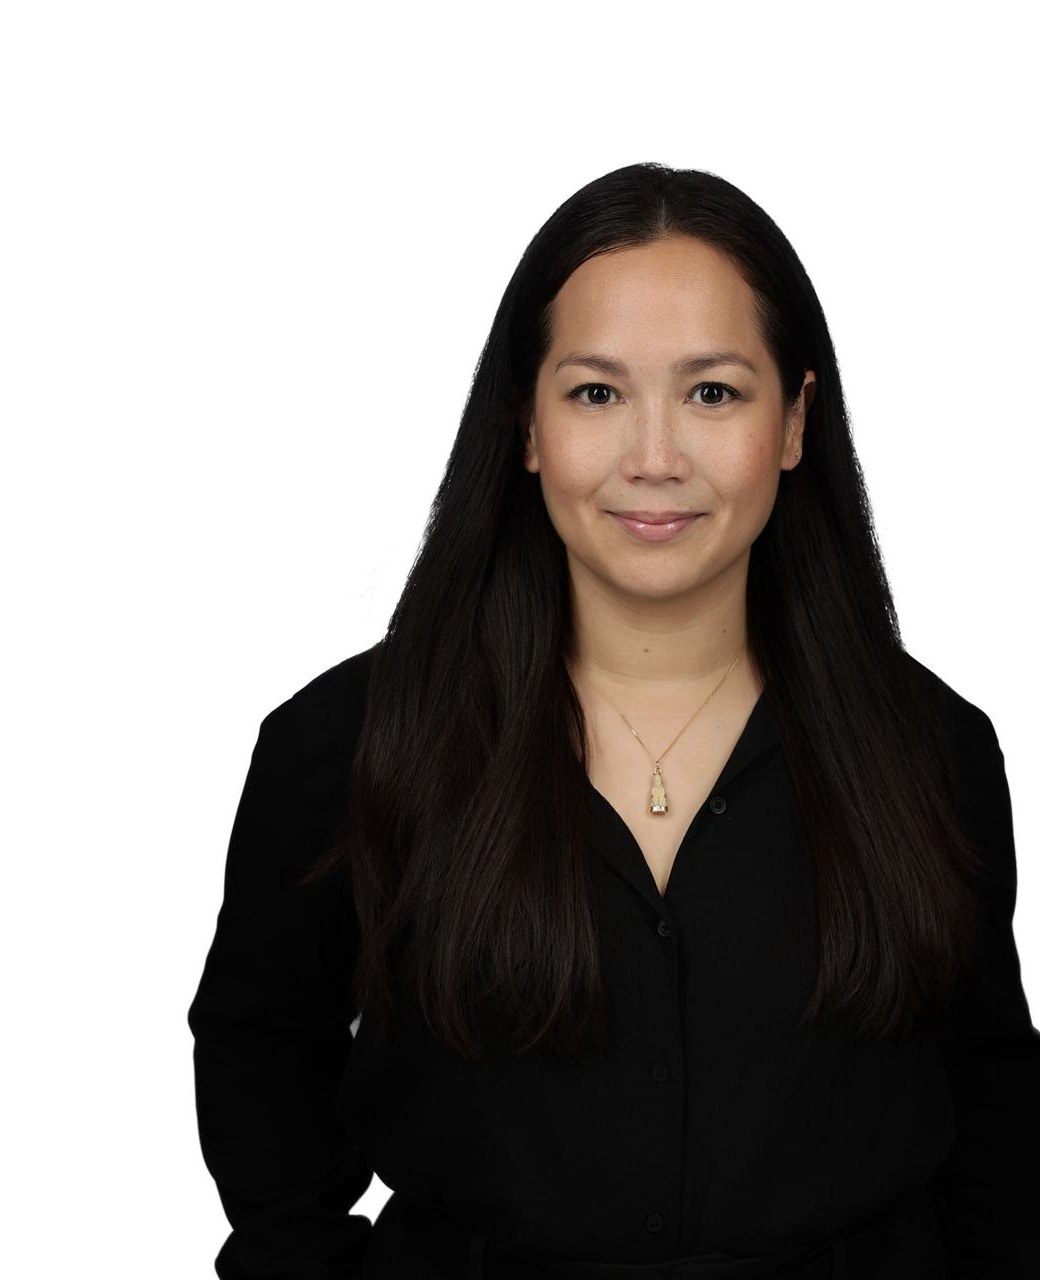
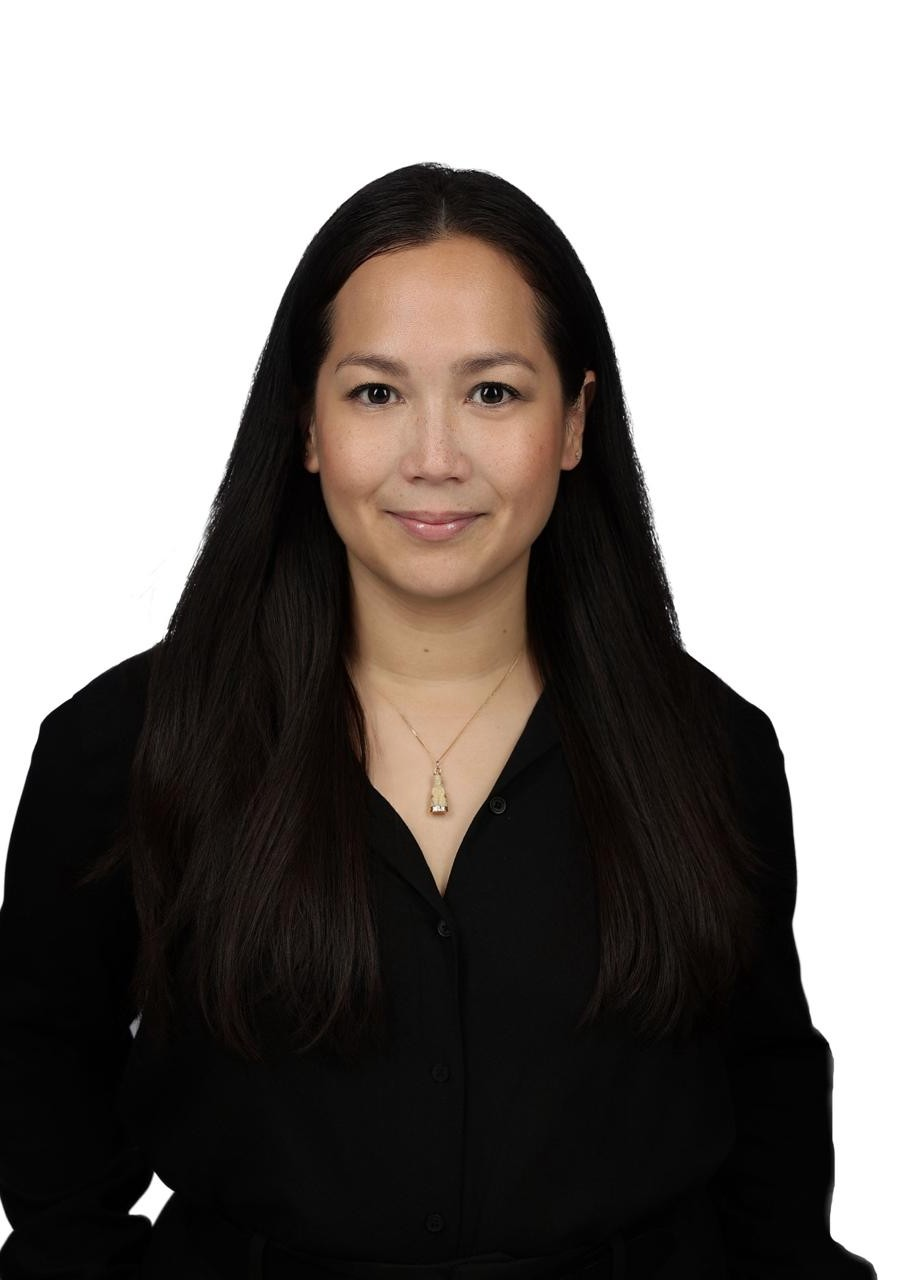
Add files via upload

diff --git a/index.html b/index.html
@@ -6,8 +6,8 @@
     <meta name="viewport" content="width=device-width, initial-scale=1.0" />
     <meta name="description" content="Eugenie Do – Real estate agent for the Greater Montreal Area. Buyer-first approach with construction expertise." />
     <title>Eugenie Do – Real Estate Agent, Greater Montreal</title>
-    <script type="module" crossorigin src="./assets/index-CJP-F1ou.js"></script>
-    <link rel="stylesheet" crossorigin href="./assets/index-B2unGfl3.css">
+    <script type="module" crossorigin src="./assets/index-CKINbBD5.js"></script>
+    <link rel="stylesheet" crossorigin href="./assets/index-CpiVnJFN.css">
   </head>
   <body>
     <div id="root"></div>

diff --git a/assets/index-CpiVnJFN.css b/assets/index-CpiVnJFN.css
@@ -1,0 +1,1 @@
+.nav{z-index:100;height:var(--nav-h);-webkit-backdrop-filter:blur(10px);backdrop-filter:blur(10px);transition:box-shadow .3s var(--ease);background:#faf6f2f2;border-bottom:1px solid #0000000f;align-items:center;display:flex;position:fixed;top:0;left:0;right:0}.nav.scrolled{box-shadow:0 2px 20px #00000014}.nav-inner{width:100%;max-width:var(--max);align-items:center;gap:32px;margin:0 auto;padding:0 32px;display:flex}.nav-logo{font-family:var(--font-disp);letter-spacing:.02em;color:var(--dark);cursor:pointer;background:0 0;border:none;margin-right:auto;padding:0;font-size:1.25rem;font-weight:500}.nav-logo span{color:var(--rose)}.nav-links{align-items:center;gap:32px;list-style:none;display:flex}.nav-link{letter-spacing:.1em;text-transform:uppercase;color:var(--mid);cursor:pointer;background:0 0;border:none;padding:4px 0;font-size:.78rem;font-weight:500;transition:color .2s}.nav-link:hover,.nav-link.active{color:var(--rose)}.nav-cta{letter-spacing:.08em;text-transform:uppercase;color:var(--white);background:var(--rose);cursor:pointer;border:none;border-radius:2px;padding:10px 22px;font-size:.78rem;font-weight:500;transition:background .2s}.nav-cta:hover{background:var(--rose-dk)}.nav-phone{color:var(--mid);white-space:nowrap;font-size:.78rem}.nav-phone:hover{color:var(--rose)}.hamburger{cursor:pointer;background:0 0;border:none;flex-direction:column;gap:5px;padding:6px;display:none}.hamburger span{background:var(--dark);width:24px;height:1.5px;transition:transform .3s var(--ease), opacity .3s;display:block}.hamburger.open span:first-child{transform:translateY(6.5px)rotate(45deg)}.hamburger.open span:nth-child(2){opacity:0}.hamburger.open span:nth-child(3){transform:translateY(-6.5px)rotate(-45deg)}.mobile-drawer{top:var(--nav-h);background:var(--cream);z-index:99;animation:slideDown .25s var(--ease);border-top:1px solid #0000000f;flex-direction:column;padding:16px 32px 28px;display:flex;position:fixed;left:0;right:0}.mobile-drawer button{letter-spacing:.1em;text-transform:uppercase;color:var(--mid);cursor:pointer;text-align:left;background:0 0;border:none;border-bottom:1px solid #0000000f;padding:14px 0;font-size:.85rem;font-weight:500;transition:color .2s}.mobile-drawer button:hover{color:var(--rose)}.mobile-drawer .mob-cta{background:var(--rose);border-radius:2px;margin-top:20px;padding:14px 24px;color:var(--white)!important;text-align:center!important;border-bottom:none!important}@keyframes slideDown{0%{opacity:0;transform:translateY(-8px)}to{opacity:1;transform:translateY(0)}}@media (width<=900px){.nav-links,.nav-phone{display:none}.hamburger{display:flex}}@media (width<=640px){.nav-inner{padding:0 20px}.mobile-drawer{padding:16px 20px 28px}}.nav-right{align-items:center;gap:16px;display:flex}.lang-toggle{letter-spacing:.1em;border:1px solid var(--rose);color:var(--rose);cursor:pointer;background:0 0;border-radius:2px;padding:5px 12px;font-size:.72rem;font-weight:500;transition:background .2s,color .2s}.lang-toggle:hover{background:var(--rose);color:var(--white)}.mob-lang{color:var(--rose);cursor:pointer;text-align:left;background:0 0;border:none;margin-top:8px;padding:12px 0;font-size:.8rem}@media (width<=900px){.nav-right{display:none}}.footer{background:#141210;padding:56px 0 32px}.footer-logo{font-family:var(--font-disp);letter-spacing:.02em;color:var(--white);cursor:pointer;background:0 0;border:none;margin-bottom:14px;padding:0;font-size:1.25rem;font-weight:500;display:block}.footer-logo span{color:var(--rose)}.footer-grid{border-bottom:1px solid #ffffff12;grid-template-columns:2fr 1fr 1fr;gap:48px;padding-bottom:40px;display:grid}.footer-brand p{color:#ffffff59;max-width:260px;font-size:.83rem;line-height:1.7}.footer-col h4{letter-spacing:.12em;text-transform:uppercase;color:#fff6;margin-bottom:18px;font-size:.72rem;font-weight:500}.footer-col ul{flex-direction:column;gap:10px;list-style:none;display:flex}.footer-col ul button,.footer-col ul a{color:#ffffff73;cursor:pointer;text-align:left;font-size:.85rem;font-family:var(--font-body);background:0 0;border:none;padding:0;transition:color .2s}.footer-col ul button:hover,.footer-col ul a:hover{color:var(--rose)}.footer-bottom{color:#fff3;flex-wrap:wrap;justify-content:space-between;align-items:center;gap:12px;padding-top:28px;font-size:.75rem;display:flex}@media (width<=760px){.footer-grid{grid-template-columns:1fr 1fr}}@media (width<=480px){.footer-grid{grid-template-columns:1fr}}.newsletter-strip{background:var(--blush);padding:60px 0}.newsletter-inner{flex-wrap:wrap;justify-content:space-between;align-items:center;gap:32px;display:flex}.newsletter-text h3{font-family:var(--font-disp);margin-bottom:6px;font-size:1.6rem;font-weight:300}.newsletter-text p{color:var(--mid);font-size:.88rem}.newsletter-form{flex:0 0 420px;display:flex}.newsletter-form input{background:var(--white);font-family:var(--font-body);border:1px solid #0000001f;border-right:none;border-radius:2px 0 0 2px;outline:none;flex:1;padding:14px 18px;font-size:.9rem}.newsletter-form input:focus{border-color:var(--rose)}.newsletter-form button{background:var(--rose);color:var(--white);letter-spacing:.1em;text-transform:uppercase;white-space:nowrap;border-radius:0 2px 2px 0;padding:14px 24px;font-size:.78rem;font-weight:500;transition:background .2s}.newsletter-form button:hover:not(:disabled){background:var(--rose-dk)}.newsletter-done{color:var(--rose);font-size:.9rem;font-weight:500}@media (width<=760px){.newsletter-form{flex:100%}}.hero{min-height:100vh;padding-top:var(--nav-h);grid-template-columns:1fr 1fr;display:grid}.hero-left{flex-direction:column;justify-content:center;padding:80px 64px 80px 80px;display:flex}.hero-eyebrow{letter-spacing:.18em;text-transform:uppercase;color:var(--rose);margin-bottom:20px;font-size:.72rem;font-weight:500}.hero-title{font-family:var(--font-disp);color:var(--dark);margin-bottom:24px;font-size:clamp(3rem,4.5vw,5.5rem);font-weight:300;line-height:1.05}.hero-title em{color:var(--rose);font-style:italic}.hero-sub{color:var(--mid);max-width:420px;margin-bottom:40px;font-size:1rem;line-height:1.75}.hero-actions{flex-wrap:wrap;gap:16px;display:flex}.hero-right{background:var(--blush);position:relative;overflow:hidden}.hero-right picture{width:100%;height:100%;display:block}.hero-right picture img{object-fit:cover;object-position:top center;width:100%;height:100%}.hero-right:after{content:"";background:linear-gradient(#0000 60%,#1a171426);position:absolute;inset:0}.hero-badges{z-index:2;flex-wrap:wrap;gap:14px;display:flex;position:absolute;bottom:32px;left:32px;right:32px}.hero-badge{-webkit-backdrop-filter:blur(8px);backdrop-filter:blur(8px);color:var(--mid);background:#faf6f2eb;border-radius:2px;padding:12px 18px;font-size:.78rem}.hero-badge strong{color:var(--dark);font-size:.9rem;font-weight:500;display:block}.hero-badge-logo{align-items:center;padding:10px 16px;display:flex}.hero-badge-logo img{width:auto;height:120px;display:block}.services-section{background:var(--white);padding:100px 0}.services-grid{background:#0000000d;grid-template-columns:repeat(2,1fr);gap:2px;display:grid}.service-card{background:var(--white);padding:48px 44px;transition:background .25s}.service-card:hover{background:var(--cream)}.service-icon{background:var(--blush);width:44px;height:44px;color:var(--rose);border-radius:50%;justify-content:center;align-items:center;margin-bottom:24px;display:flex}.service-icon svg{width:20px;height:20px}.service-card h3{font-family:var(--font-disp);color:var(--dark);margin-bottom:14px;font-size:1.5rem;font-weight:400}.service-card p{color:var(--mid);font-size:.9rem;line-height:1.75}.testimonials-section{background:var(--blush);padding:100px 0}.testimonials-grid{grid-template-columns:repeat(3,1fr);gap:24px;display:grid}.testimonial-card{background:var(--white);padding:40px 36px;position:relative}.testimonial-photo{z-index:1;border:2px solid var(--blush);border-radius:50%;width:56px;height:56px;margin-bottom:20px;position:relative;overflow:hidden}.testimonial-photo img{object-fit:cover;width:100%;height:100%}.testimonial-photo-fallback{background:var(--rose);width:100%;height:100%;color:var(--white);font-family:var(--font-disp);justify-content:center;align-items:center;font-size:1.1rem;font-weight:500;display:none}.testimonial-card:before{content:"“";font-family:var(--font-disp);color:var(--blush);font-size:5rem;line-height:.5;position:absolute;top:28px;right:28px}.stars{color:var(--rose);margin-bottom:14px;font-size:.85rem}.testimonial-card blockquote{color:var(--mid);z-index:1;margin-bottom:24px;font-size:.9rem;line-height:1.8;position:relative}.testimonial-card cite{letter-spacing:.05em;color:var(--dark);font-size:.8rem;font-style:normal;font-weight:500}.testimonial-card cite span{color:var(--light);font-size:.78rem;font-weight:300;display:block}.blog-preview-section{background:var(--cream);padding:100px 0}.blog-header{flex-wrap:wrap;justify-content:space-between;align-items:flex-end;gap:16px;margin-bottom:48px;display:flex}.read-all-btn{letter-spacing:.1em;text-transform:uppercase;color:var(--rose);cursor:pointer;background:0 0;border:none;font-size:.75rem;font-weight:500;transition:color .2s}.read-all-btn:hover{color:var(--rose-dk)}.blog-grid{grid-template-columns:repeat(3,1fr);gap:28px;display:grid}@media (width<=960px){.hero{grid-template-columns:1fr;min-height:auto}.hero-left{order:2;padding:60px 32px 40px}.hero-right{aspect-ratio:auto;background:var(--cream);flex-direction:column;order:1;align-items:center;height:auto;max-height:none;padding:32px 40px 0;display:flex;overflow:visible}.hero-right picture{width:100%;max-width:320px;display:block;position:relative}.hero-right picture img{object-fit:unset;object-position:unset;width:100%;height:auto;display:block}.hero-right:after{display:none}.hero-badges{flex-direction:row;width:100%;max-width:320px;margin-top:12px;padding:0;position:static}.hero-badge-logo img{height:80px}.services-grid,.testimonials-grid,.blog-grid{grid-template-columns:1fr}}@media (width<=640px){.hero-left{padding:48px 20px 32px}.hero-badges{flex-direction:column;gap:8px}.services-section,.testimonials-section,.blog-preview-section{padding:64px 0}}.about-section{background:var(--cream);padding:100px 0}.about-grid{grid-template-columns:5fr 7fr;align-items:start;gap:80px;display:grid}.about-img-wrap{position:relative}.about-img-wrap:before{content:"";border:1px solid var(--rose);z-index:0;position:absolute;inset:-16px 16px 16px -16px}.about-img-wrap img{z-index:1;aspect-ratio:3/4;object-fit:cover;object-position:top;width:100%;position:relative}.about-content h2{font-family:var(--font-disp);margin-bottom:28px;font-size:clamp(1.8rem,2.8vw,2.8rem);font-weight:300;line-height:1.15}.about-content p{color:var(--mid);margin-bottom:16px;font-size:.92rem;line-height:1.8}.about-facts{flex-direction:column;gap:12px;margin-top:32px;display:flex}.about-fact{color:var(--mid);align-items:baseline;gap:16px;font-size:.87rem;display:flex}.about-fact strong{color:var(--dark);flex-shrink:0;min-width:120px}@media (width<=900px){.about-grid{grid-template-columns:1fr;gap:48px}.about-img-wrap{max-width:380px}.about-section{padding:64px 0}}.resources-section{background:var(--white);min-height:100vh;padding:100px 0}.resources-title{margin-bottom:56px}.resources-grid{grid-template-columns:repeat(3,1fr);gap:24px;display:grid}.resource-card{border:1px solid #00000014;padding:40px 32px;transition:border-color .2s,transform .2s}.resource-card:hover{border-color:var(--rose);transform:translateY(-3px)}.resource-tag{letter-spacing:.14em;text-transform:uppercase;color:var(--rose);margin-bottom:12px;font-size:.68rem;font-weight:500}.resource-card h3{font-family:var(--font-disp);color:var(--dark);margin-bottom:12px;font-size:1.3rem;font-weight:400}.resource-card p{color:var(--mid);margin-bottom:20px;font-size:.87rem;line-height:1.75}.resource-link{letter-spacing:.1em;text-transform:uppercase;color:var(--rose);cursor:pointer;background:0 0;border:none;padding:0;font-size:.75rem;font-weight:500;text-decoration:none;transition:color .2s}.resource-link:hover{color:var(--rose-dk)}@media (width<=900px){.resources-grid{grid-template-columns:1fr 1fr}}@media (width<=580px){.resources-grid{grid-template-columns:1fr}.resources-section{padding:64px 0}}.blog-section{background:var(--cream);min-height:100vh;padding:100px 0}.blog-title{margin-bottom:56px}.blog-full-grid{grid-template-columns:repeat(3,1fr);gap:28px;display:grid}.blog-card{overflow:hidden}.blog-card-img{aspect-ratio:4/3;margin-bottom:20px}.blog-meta{color:var(--light);letter-spacing:.06em;margin-bottom:10px;font-size:.72rem}.blog-meta span{color:var(--rose)}.blog-card h3{font-family:var(--font-disp);color:var(--dark);margin-bottom:10px;font-size:1.25rem;font-weight:400;line-height:1.3}.blog-card p{color:var(--mid);margin-bottom:14px;font-size:.85rem;line-height:1.7}.read-more{letter-spacing:.1em;text-transform:uppercase;color:var(--rose);cursor:pointer;background:0 0;border:none;padding:0;font-size:.72rem;font-weight:500}.read-more:hover{color:var(--rose-dk)}@media (width<=900px){.blog-full-grid{grid-template-columns:1fr 1fr}}@media (width<=580px){.blog-full-grid{grid-template-columns:1fr}.blog-section{padding:64px 0}}.contact-section{background:var(--dark);min-height:100vh;padding:100px 0}.contact-title{color:var(--white);margin-bottom:16px}.contact-sub{color:#ffffff80;max-width:520px;margin-bottom:56px;font-size:.95rem;line-height:1.75}.contact-grid{grid-template-columns:1fr 1fr;align-items:start;gap:80px;display:grid}.contact-form{flex-direction:column;gap:16px;display:flex}.form-row{grid-template-columns:1fr 1fr;gap:16px;display:grid}.form-group{flex-direction:column;gap:6px;display:flex}.form-group label{letter-spacing:.1em;text-transform:uppercase;color:#fff6;font-size:.72rem;font-weight:500}.form-group input,.form-group select,.form-group textarea{color:var(--white);font-family:var(--font-body);background:#ffffff12;border:1px solid #ffffff1f;border-radius:2px;outline:none;width:100%;padding:14px 16px;font-size:.92rem;transition:border-color .2s}.form-group input::placeholder,.form-group textarea::placeholder{color:#ffffff40}.form-group input:focus,.form-group select:focus,.form-group textarea:focus{border-color:var(--rose)}.form-group select option{background:var(--dark)}.form-group textarea{resize:vertical;min-height:120px}.form-consent{color:#ffffff4d;font-size:.78rem;line-height:1.6}.form-status{border-radius:2px;padding:12px 16px;font-size:.85rem}.form-status.success{color:#7ac47a;background:#64b4641f}.form-status.error{color:#c87a7a;background:#c850501f}.form-status.error a{color:var(--rose)}.submit-btn{text-align:center;width:100%}.contact-info h3{font-family:var(--font-disp);color:var(--white);margin-bottom:32px;font-size:1.6rem;font-weight:300}.contact-detail{align-items:flex-start;gap:16px;margin-bottom:20px;display:flex}.contact-detail-icon{background:#ffffff0f;border-radius:50%;flex-shrink:0;justify-content:center;align-items:center;width:36px;height:36px;display:flex}.contact-detail-icon svg{width:16px;height:16px;color:var(--rose)}.contact-detail span,.contact-detail a{color:#ffffff8c;font-size:.9rem;line-height:1.6}.contact-detail a:hover{color:var(--rose)}.social-label{letter-spacing:.12em;text-transform:uppercase;color:#ffffff4d;margin:36px 0 14px;font-size:.72rem;font-weight:500}.social-row{gap:12px;display:flex}.social-btn{background:#ffffff12;border-radius:50%;justify-content:center;align-items:center;width:40px;height:40px;transition:background .2s;display:flex}.social-btn:hover{background:var(--rose)}.social-btn svg{width:16px;height:16px}@media (width<=900px){.contact-grid{grid-template-columns:1fr;gap:48px}.contact-section{padding:64px 0}}@media (width<=640px){.form-row{grid-template-columns:1fr}}:root{--cream:#faf6f2;--blush:#f2e8e0;--rose:#c9806a;--rose-dk:#a85f4a;--dark:#1a1714;--mid:#5a524c;--light:#9a8f87;--white:#fff;--font-disp:"Cormorant Garamond", Georgia, serif;--font-body:"DM Sans", sans-serif;--nav-h:68px;--max:1160px;--ease:cubic-bezier(.4,0,.2,1)}*,:before,:after{box-sizing:border-box;margin:0;padding:0}html{scroll-behavior:smooth}body{font-family:var(--font-body);background:var(--cream);color:var(--dark);-webkit-font-smoothing:antialiased}img{max-width:100%;display:block}a{color:inherit;text-decoration:none}button{cursor:pointer;font:inherit;background:0 0;border:none}.container{max-width:var(--max);margin:0 auto;padding:0 32px}.section-label{letter-spacing:.18em;text-transform:uppercase;color:var(--rose);margin-bottom:12px;font-size:.72rem;font-weight:500}.section-title{font-family:var(--font-disp);color:var(--dark);font-size:clamp(2rem,3vw,3.2rem);font-weight:300;line-height:1.15}.btn-primary{background:var(--rose);color:var(--white);letter-spacing:.1em;text-transform:uppercase;transition:background .2s var(--ease), transform .2s;cursor:pointer;border:none;border-radius:2px;padding:16px 32px;font-size:.8rem;font-weight:500;display:inline-block}.btn-primary:hover{background:var(--rose-dk);transform:translateY(-1px)}.btn-outline{border:1.5px solid var(--rose);color:var(--rose);letter-spacing:.1em;text-transform:uppercase;cursor:pointer;background:0 0;border-radius:2px;padding:16px 32px;font-size:.8rem;font-weight:500;transition:background .2s,color .2s,transform .2s;display:inline-block}.btn-outline:hover{background:var(--rose);color:var(--white);transform:translateY(-1px)}.fade-up{opacity:0;transition:opacity .65s var(--ease), transform .65s var(--ease);transform:translateY(24px)}.fade-up.visible{opacity:1;transform:translateY(0)}@media (width<=640px){.container{padding:0 20px}}@font-face{font-family:Cormorant Garamond;font-style:normal;font-display:swap;font-weight:300;src:url(./cormorant-garamond-latin-300-normal-Cw-E_7L1.woff2)format("woff2"),url(./cormorant-garamond-latin-300-normal-BuXLI6C0.woff)format("woff")}@font-face{font-family:Cormorant Garamond;font-style:italic;font-display:swap;font-weight:300;src:url(./cormorant-garamond-latin-300-italic-qkwBXYHn.woff2)format("woff2"),url(./cormorant-garamond-latin-300-italic-DRnsRYID.woff)format("woff")}@font-face{font-family:Cormorant Garamond;font-style:normal;font-display:swap;font-weight:400;src:url(./cormorant-garamond-latin-400-normal-B-1hWBU7.woff2)format("woff2"),url(./cormorant-garamond-latin-400-normal-B7YtguxJ.woff)format("woff")}@font-face{font-family:Cormorant Garamond;font-style:italic;font-display:swap;font-weight:400;src:url(./cormorant-garamond-latin-400-italic-Dc_OZ8oc.woff2)format("woff2"),url(./cormorant-garamond-latin-400-italic-BLh7T8o8.woff)format("woff")}@font-face{font-family:Cormorant Garamond;font-style:normal;font-display:swap;font-weight:500;src:url(./cormorant-garamond-latin-500-normal-BsRWmXhO.woff2)format("woff2"),url(./cormorant-garamond-latin-500-normal-zIXX3Q-H.woff)format("woff")}@font-face{font-family:DM Sans;font-style:normal;font-display:swap;font-weight:300;src:url(./dm-sans-latin-300-normal-C46oWILc.woff2)format("woff2"),url(./dm-sans-latin-300-normal-CsNfKS1n.woff)format("woff")}@font-face{font-family:DM Sans;font-style:normal;font-display:swap;font-weight:400;src:url(./dm-sans-latin-400-normal-CW0RaeGs.woff2)format("woff2"),url(./dm-sans-latin-400-normal-BwCSEQnW.woff)format("woff")}@font-face{font-family:DM Sans;font-style:normal;font-display:swap;font-weight:500;src:url(./dm-sans-latin-500-normal-B9HHJjqV.woff2)format("woff2"),url(./dm-sans-latin-500-normal-Dr3UlScf.woff)format("woff")}